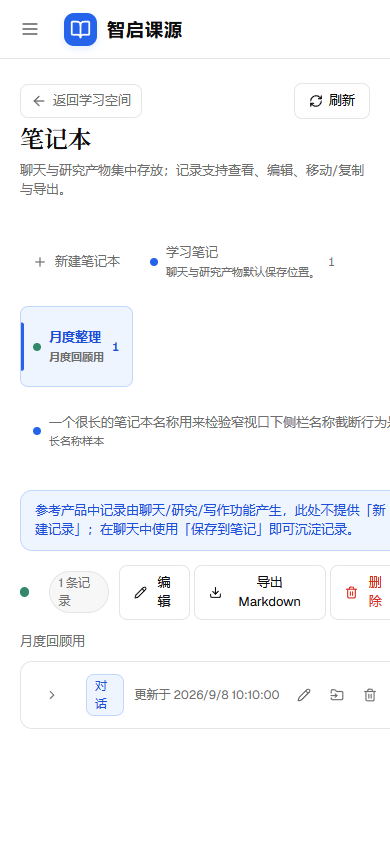
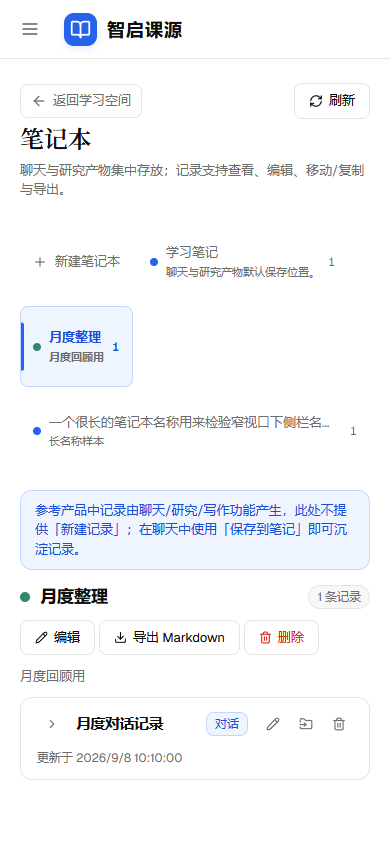
fix(kb-notebooks): B-R05-EXTEND-I2 v2——修复 A1 发现的 390 窄视口缺陷
独立验收 A1（候选 82871fa）判定 needs_revision，两项 390×844 缺陷均为本批引入：
- F1：rail 长名项宽 447px 溢出被硬裁剪、计数徽标不可见（新增 nowrap 抬高 min-content）。
  修：.nb-page .space-scope-item 加 min-width:0/max-width:100%，省略号截断生效。
- F2：记录行标题被行头时间戳挤压成 0 宽、类型徽章竖排（实现者 after 截图同样呈现）。
  修：时间戳改 .nb-row-time 类；≤760px 下行头 wrap 且时间戳换第二行，宽视口保持行头常驻。
- 连带修复（起点既有、落在本批页面内）：≤760px 下 space-bank-layout 纵向后仍保留
  align-items:flex-start，主列被内容撑到 628px 溢出视口、操作钮被裁。修：本页改 stretch。

队长独立量测（390×844）：rail 项 right 370≤390、count 可见；记录行标题宽 96/120px 可见、
徽章 24px 单行；全页横向溢出 offenderCount 0（修前 56）；1440 宽视口零回归。
after 390 截图已重拍。回归：lint/build/unit 297/e2e 154 全过。

diff --git a/apps/web/src/features/notebooks/styles/notebooks.css b/apps/web/src/features/notebooks/styles/notebooks.css
@@ -12,6 +12,10 @@
    + focus-visible:ring-2 ring-[var(--primary)]/40） */
 .nb-page .space-scope-item {
   position: relative;
+  /* 窄视口（≤760px，rail 变 row+wrap）下允许 item 收缩到容器宽度以下，
+     nowrap 名称才能走省略号而不是把 item 撑到 min-content 宽度溢出视口（A1 F1） */
+  min-width: 0;
+  max-width: 100%;
   transition:
     background-color 150ms,
     color 150ms,
@@ -126,6 +130,36 @@
 
 .nb-page .space-session-card:hover {
   background: var(--surface);
+}
+
+/* ===== C2 行头时间戳：宽视口常驻行头右侧；窄视口换到第二行（A1 F2） ===== */
+
+/* 宽视口：不参与行头收缩竞争（flexShrink 语义由类承担，替代原内联样式） */
+.nb-page .nb-row-time {
+  flex-shrink: 0;
+}
+
+/* 窄视口（与 space.css 的 760px 断点一致）：时间戳整行换到行头第二行，
+   让标题（flex:1）与徽章不再被时间戳+操作钮挤压成 0 宽/竖排 */
+@media (max-width: 760px) {
+  /* 仅本页窄视口允许行头换行（space-session-top 默认单行；wrap 后时间戳可落到第二行） */
+  .nb-page .space-session-top {
+    flex-wrap: wrap;
+  }
+
+  .nb-page .nb-row-time {
+    flex-basis: 100%;
+    order: 10;
+    /* 换行后时间戳作为独立第二行左侧对齐 */
+    width: 100%;
+  }
+
+  /* 窄视口下 space.css 把本布局改为纵向后仍保留 align-items:flex-start，
+     主列会按内容宽度撑开（实测 628px）超出视口，操作钮被裁切。
+     本页改为 stretch，让主列与 rail 都收在容器宽度内（仅 ≤760px 生效）。 */
+  .nb-page .space-bank-layout {
+    align-items: stretch;
+  }
 }
 
 /* ===== C4 操作钮：参考 transition-[background-color,color,transform] 150ms + active 0.97 ===== */

diff --git a/apps/web/src/features/notebooks/NotebooksSection.tsx b/apps/web/src/features/notebooks/NotebooksSection.tsx
@@ -563,8 +563,9 @@ function RecordRow({
         <span className={typeBadgeClass(record.type)}>
           {TYPE_LABEL[record.type] ?? record.type}
         </span>
-        {/* 时间戳常驻行头右侧（参考注释：避免 hover 交换时行高抖动），格式保持中文可读 */}
-        <span className="space-meta-row" style={{ flexShrink: 0 }}>
+        {/* 时间戳常驻行头右侧（参考注释：避免 hover 交换时行高抖动），格式保持中文可读；
+            窄视口下经 nb-row-time 换到第二行，避免挤压标题（A1 F2） */}
+        <span className="space-meta-row nb-row-time">
           更新于 {new Date(record.updatedAt).toLocaleString('zh-CN')}
         </span>
         <span className="space-session-actions">
